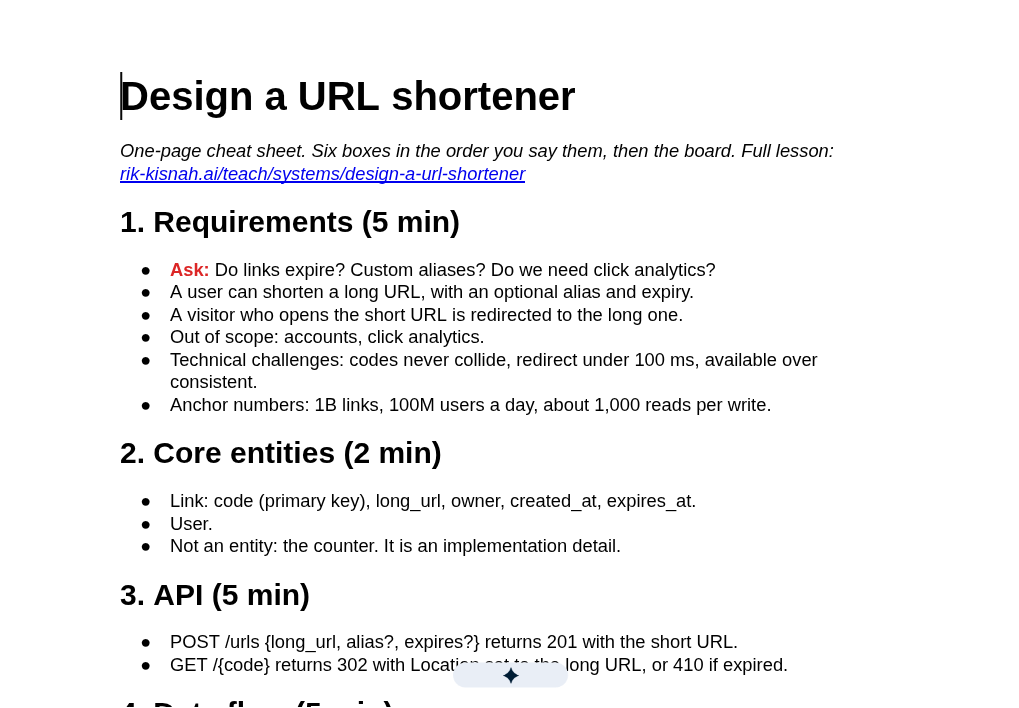
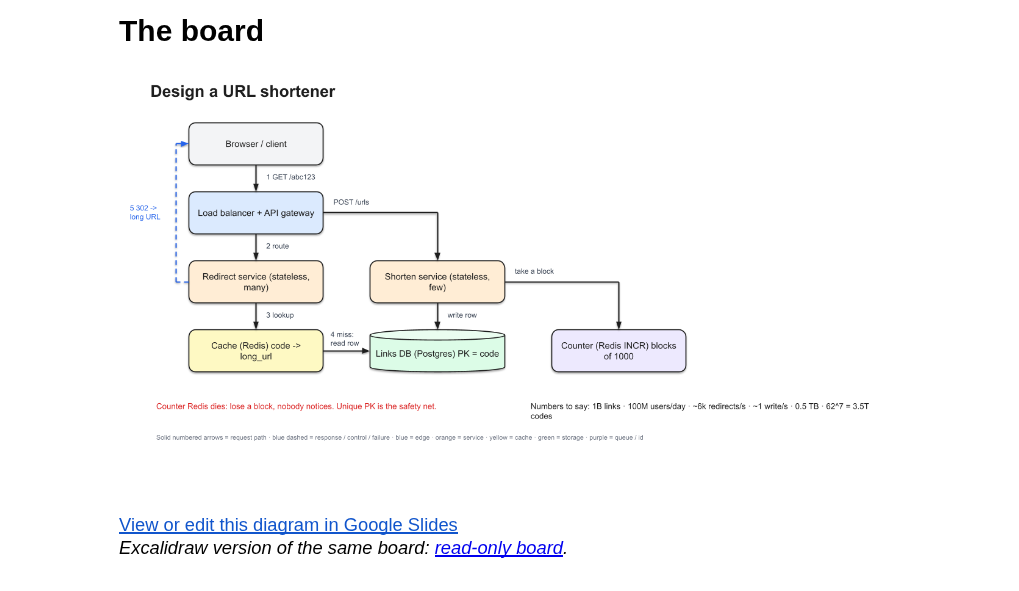
Post: fresh Google Doc screenshot showing the diagram and Slides link

Changed region(s): [[0.0913, 0.0305, 0.8518, 0.7919], [0.1217, 0.8223, 0.7605, 1.0], [0.1521, 0.9746, 0.1825, 1.0]]

diff --git a/content/posts/system-design-diagrams-for-interviews.md b/content/posts/system-design-diagrams-for-interviews.md
@@ -65,7 +65,7 @@ Many companies send a Google Doc link and ask you to work in it. That is fine. T
 
 Here is the [URL shortener as a Google Doc with a Drawing](https://docs.google.com/document/d/1sIDlSUov5mcPGZVkB3IcAe8lMLt3k7lO0DWzMuj_i50/view) (read-only).
 
-![The URL shortener cheat sheet as a read-only Google Doc](/posts/system-design-diagrams-for-interviews/gdoc.png)
+![The URL shortener board in the read-only Google Doc, with the link to the editable slide underneath](/posts/system-design-diagrams-for-interviews/gdoc.png)
 
 I have also backfilled a Doc for every design lesson on the [Teach page](/teach/). They are all in [this Drive folder](https://drive.google.com/drive/folders/1120IT19jQRnKvGB3VlXTGUqGecRy1Tpl).
 
